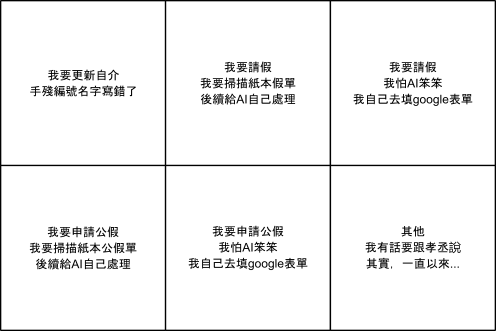
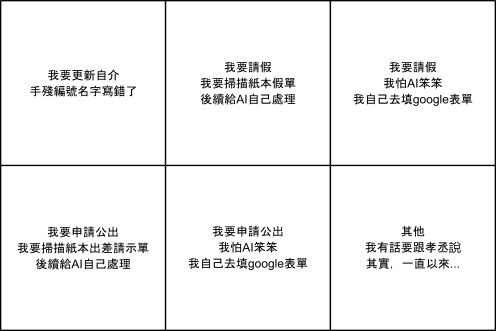
image saving OK

Changed region(s): [[0.0302, 0.6647, 0.3024, 0.7855], [0.5444, 0.6647, 0.5746, 0.7251]]

diff --git a/catbot.py b/catbot.py
@@ -9,8 +9,10 @@ import sys
 from datetime import datetime
 from urllib.parse import quote, unquote
 
+import requests
 from linebot.v3.webhooks import MessageEvent
 
+from credentials import line_chan_acctoken
 from state_machine import bot, transition_from
 
 
@@ -47,7 +49,7 @@ class catbot(bot):
     name: str = ''
 
     @transition_from('init')
-    def prompt_for_name(self, query: str):
+    def prompt_for_name(self, query: str, **kwargs):
         match = re.match(r'(\D{2}\D?)T(\d{4})', query)
         if match and match.span()[0] == 0 and match.span()[1] == len(query):
             self.name, self.id = match.groups()
@@ -56,13 +58,19 @@ class catbot(bot):
             return 'init', "抱歉(cony cry)，我不知道你是誰，麻煩請符合格式自我介紹...如王大明T8123"
 
     @transition_from('named')
-    def waiting_for_actions(self, query: str):
+    def await_for_actions(self, query: str, **kwargs):
         if query == '其他，我有話要跟孝丞說，其實，一直以來...':
             return ('waiting for msg',
                     f"請說請說(moon halo)，我會幫你把訊息印出來，屬名{self.name}然後放小信封，用(heart)貼紙封好，放在他鞋盒裡。請耐心等候他的回信")
         elif query == '我要更新自介，手殘編號名字寫錯了':
             return ('init',
                     f"OK~ 麻煩請符合格式自我介紹...如王大明T8123")
+        elif query == '我要請假，我要掃描紙本假單，後續給AI自己處理':
+            return ('await holiday img',
+                    f"請[紙本假單]照片上傳給我喔~(heart)")
+        elif query == '我要申請[出差請示單]，我要掃描紙本公假單，後續給AI自己處理':
+            return ('await outing img',
+                    f"請[出差請示單]照片上傳給我喔~(heart)")
         elif query == '我要請假，我怕AI笨笨，我自己去填google表單':
             return ('named',
                     f"OK~ 表格在這裡，流水號記得寫紙本正面左上角喔: https://docs.google.com/forms/d/e/"
@@ -74,8 +82,46 @@ class catbot(bot):
         else:
             return 'named', f'{self.name}大大，拍謝~(cony cry)我聽不懂你說的"{query}"建議點擊預設動作'
 
+    @transition_from('await holiday img')
+    def await_holiday_img(self, query: str, **kwargs):
+        got = requests.get(f'https://api-data.line.me/v2/bot/message/{kwargs["msgid"]}/content',
+                           headers={"Authorization": f"Bearer {line_chan_acctoken}"}, stream=True)
+        filename = datetime.now().strftime('%m%d-%H%M%S')
+        with open(os.path.join('holiday_forms', filename + '.jpg'), 'wb') as f:
+            for chunk in got:
+                f.write(chunk)
+
+        return 'named', '收到檔案了，我的血輪眼[Google Vision]還沒練好，所以先存孝丞那邊'
+        # do some Google Vision magic here TODO
+        return 'named',
+        (f"根據我過目(moon sunglasses)(moon sunglasses)，表格幫你預填了，流水號記得寫紙本正面左上角喔: "
+         f"https://docs.google.com/forms/d/e/"
+         f"1FAIpQLSed6ECASUd0Gze1hHgykRqlZMOt3to7zQrMoStTb6SXF1645Q/viewform?usp=pp_url"
+         f"&entry.1813326080={filename}"
+         f"&entry.286310740={self.id}"
+         f"&entry.330405440={quote(self.name)}")
+
+    @transition_from('await outing img')
+    def await_outing_img(self, query: str, **kwargs):
+        got = requests.get(f'https://api-data.line.me/v2/bot/message/{kwargs["msgid"]}/content',
+                           headers={"Authorization": f"Bearer {line_chan_acctoken}"}, stream=True)
+        filename = datetime.now().strftime('%m%d-%H%M%S')
+        with open(os.path.join('holiday_forms', filename + '.jpg'), 'wb') as f:
+            for chunk in got:
+                f.write(chunk)
+        return 'named', '收到檔案了，我的血輪眼[Google Vision]還沒練好，所以先存孝丞那邊'
+        # do some Google Vision magic here TODO
+        return 'named',
+        (f"根據我過目(moon sunglasses)(moon sunglasses)，表格幫你預填了，流水號記得寫紙本正面左上角喔: "
+         f"https://docs.google.com/forms/d/e/"
+         f"1FAIpQLSed6ECASUd0Gze1hHgykRqlZMOt3to7zQrMoStTb6SXF1645Q/viewform?usp=pp_url"
+         f"&entry.1813326080={filename}"
+         f"&entry.286310740={self.id}"
+         f"&entry.330405440={quote(self.name)}")
+
+
     @transition_from('waiting for msg')
-    def obtain_msg(self, query: str):
+    def await_msg(self, query: str, **kwargs):
         now = datetime.now()  # current date and time
         filename = now.strftime("%Y.%m.%d-%H.%M.%S({}).txt").format(self.name)
         with open(os.path.join('shoebox', filename), 'w', encoding='utf-8') as f:

diff --git a/catbotapp.py b/catbotapp.py
@@ -21,7 +21,8 @@ from linebot.v3.messaging import (
 )
 from linebot.v3.webhooks import (
     MessageEvent,
-    TextMessageContent
+    TextMessageContent,
+    ImageMessageContent
 )
 
 app = Flask(__name__)
@@ -55,21 +56,21 @@ def callback():
 import catbot
 
 palette_Emojis = {
+    '(moon sunglasses)': Emoji(product_id='5ac1bfd5040ab15980c9b435', emoji_id='021'),
     '(cony cry)': Emoji(product_id='5ac1bfd5040ab15980c9b435', emoji_id='046'),
     '(moon halo)': Emoji(product_id='5ac1bfd5040ab15980c9b435', emoji_id='025'),
     '(heart)': Emoji(product_id='5ac1bfd5040ab15980c9b435', emoji_id='215'),
 }
 
 
-@my_line_handler.add(MessageEvent, message=TextMessageContent)
-def handle_message(event):
+def handle_msg(event):
     uid = event.source.user_id
     if uid not in catbot.userbase:
         cbot = catbot.userbase[uid] = catbot.catbot()
     else:
         cbot = catbot.userbase[uid]
 
-    _, reply = cbot.handle(event.message.text)
+    _, reply = cbot.handle(event.message.text if event.message.type == 'text' else 'IMG', msgid=event.message.id)
     catbot.userbase[uid] = cbot  # force save
 
     reply: str
@@ -101,6 +102,16 @@ def handle_message(event):
                                    )
                                ])
         )
+
+
+@my_line_handler.add(MessageEvent, message=ImageMessageContent)
+def handle_img_message(event):
+    return handle_msg(event)
+
+
+@my_line_handler.add(MessageEvent, message=TextMessageContent)
+def handle_txt_message(event):
+    return handle_msg(event)
 
 
 if __name__ == '__main__':
